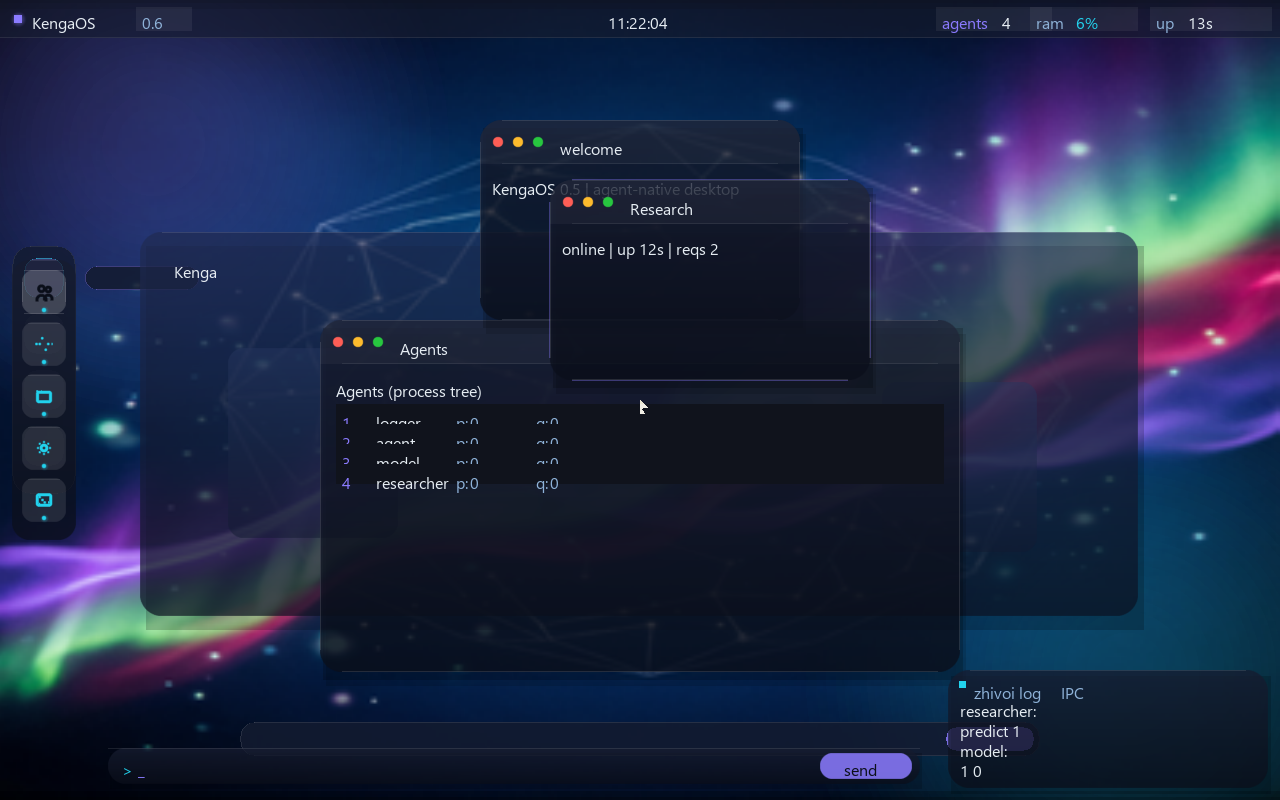
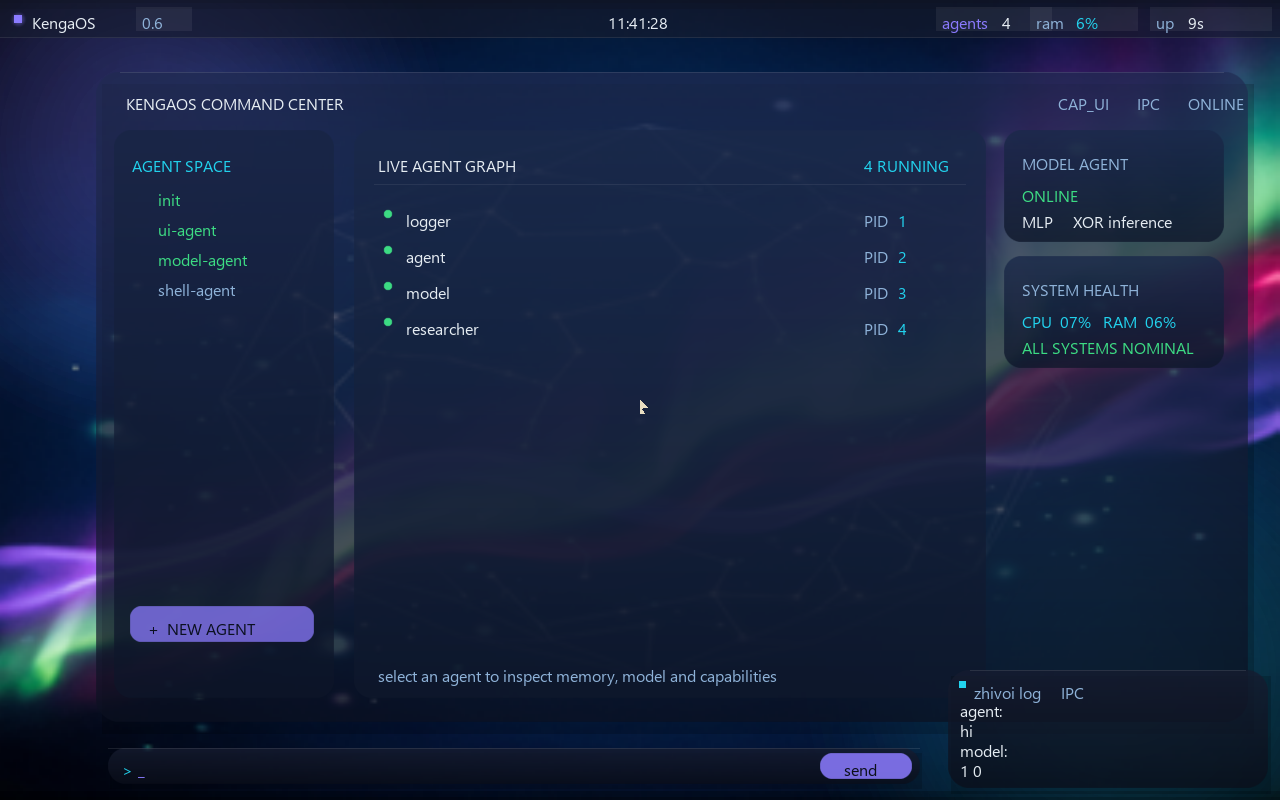
ui: replace legacy desktop with Command Center

diff --git a/kernel/kf_proc.c b/kernel/kf_proc.c
@@ -381,12 +381,13 @@ static void researcher_proc(void) {
     ipc_msg ar; int got_agent = k_ipc_recv(&ar);
     if (got_agent) { lg_uart("RESEARCHER: agent said "); lg_uart(ar.data); lg_uart("\n"); }
     /* open a window on the desktop as soon as we run (CAP_UI required) */
-    int64_t wid = k_ui_register_window("Research", "researcher online | model ready");
-    lg_uart("RESEARCHER: window "); lg_uart(dec(wid)); lg_uart("\n");
+    /* Command Center owns the visual surface; the researcher remains an IPC
+       service and must not spawn a legacy floating window. */
+    int64_t wid = 0;
+    lg_uart("RESEARCHER: visual surface delegated to Command Center\n");
     /* live demo: update the window text through the same API an IPC "upd"
        message uses — proves agent -> its own window works at startup. */
-    k_ui_window_set_text(wid - 1, "online | IPC + model ready");
-    lg_uart("RESEARCHER: window text updated\n");
+    lg_uart("RESEARCHER: IPC status online\n");
     int64_t reqs = 0;
     int64_t last_upd = 0;
     int64_t last_ping = -1;
